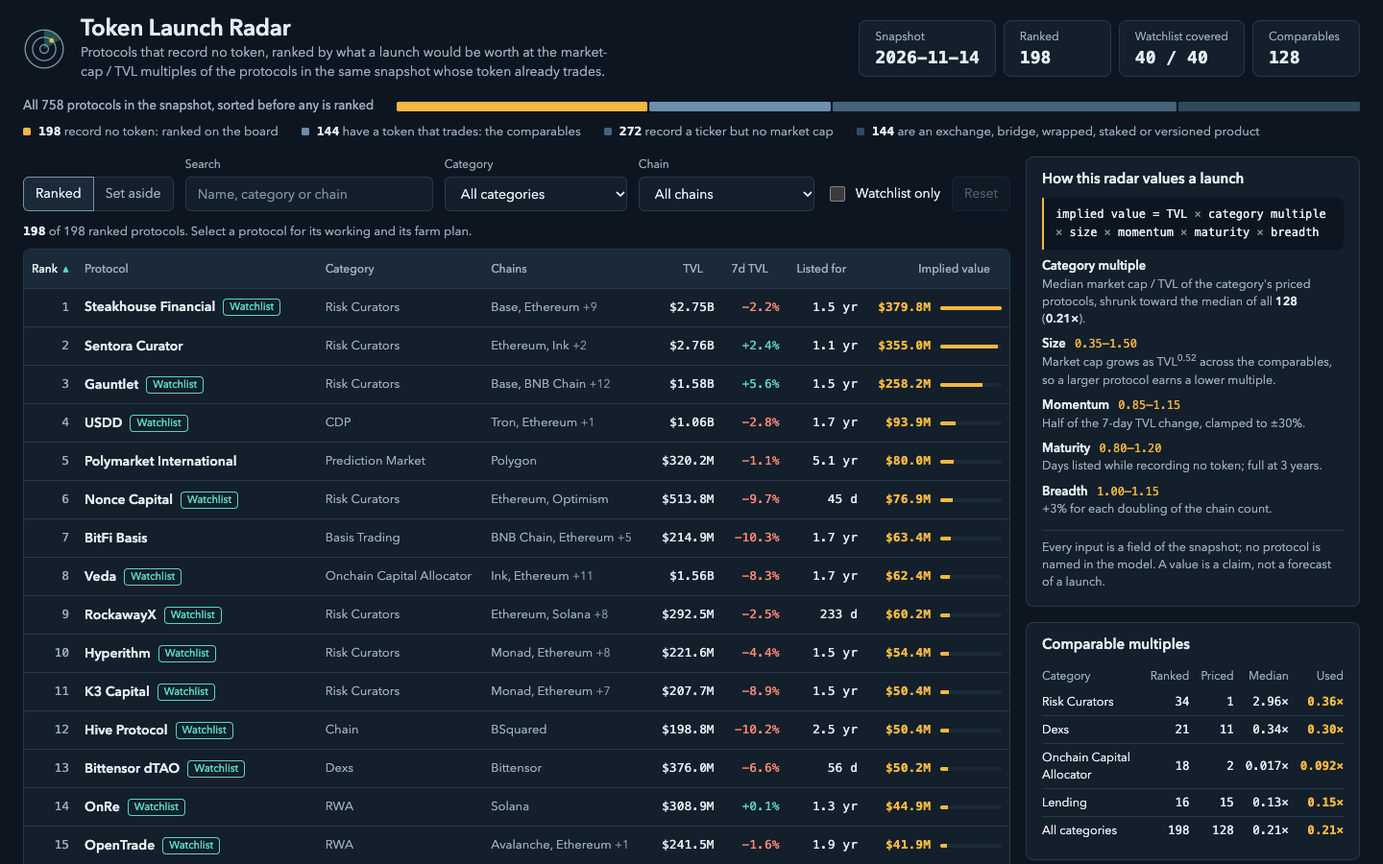
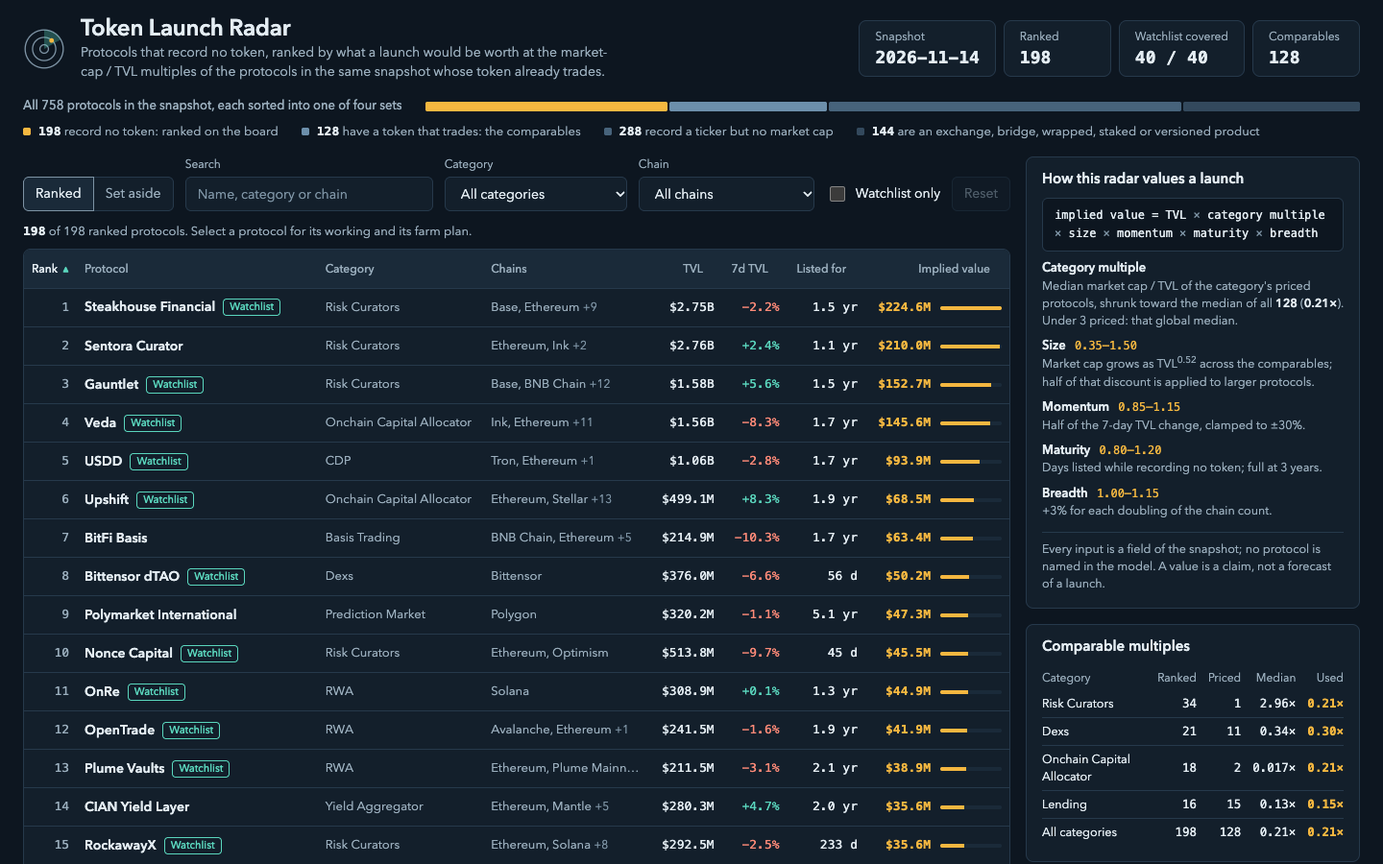
Act on independent review: honest comparables, consistent farm plans
Model: a market cap of zero or less no longer counts as priced, so the
legend and the comparables tile both read 128; a category needs 3 priced
protocols before its own multiple is used, otherwise the global median.
Farm plans: playbook order fixed for uncollateralized lending, leveraged
farming, OTC and card issuers; CDP rows supply collateral; pacing refers
to the step 3 deposit; flat and >100% 7-day changes get their own wording;
the fee total is labelled as network fees.
Page: value bar on a square-root scale, active filters in teal, no side
accent on the formula, role on the scrollable table, Previous/Next removed.
Screenshots recaptured from the final page.

diff --git a/dashboard/app.js b/dashboard/app.js
@@ -55,13 +55,13 @@
       ['change_7d', '7d TVL', 1, (r) => r.change_7d, (r) => pct(r.change_7d)],
       ['age', 'Listed for', 1, (r) => r.model.age_days, (r) => age(r.model.age_days)],
       ['implied_value_usd', 'Implied value', 1, (r) => r.implied_value_usd, (r, max) => '<span class="value">' + money(r.implied_value_usd) + '</span>' +
-        '<span class="meter"><i style="width:' + Math.max(2, 100 * r.implied_value_usd / max).toFixed(1) + '%"></i></span>']
+        '<span class="meter"><i style="width:' + (100 * Math.sqrt(r.implied_value_usd / max)).toFixed(1) + '%"></i></span>']
     ],
     aside: [
       ['name', 'Protocol', 0, (r) => r.name.toLowerCase(), (r) => esc(r.name)],
       ['category', 'Category', 0, (r) => cat(r).toLowerCase(), (r) => esc(cat(r))],
       ['tvl_usd', 'TVL', 1, (r) => r.tvl_usd, (r) => money(r.tvl_usd)],
-      ['mcap_usd', 'Market cap', 1, (r) => r.mcap_usd, (r) => (r.mcap_usd === null ? none('none') : money(r.mcap_usd))],
+      ['mcap_usd', 'Market cap', 1, (r) => r.mcap_usd, (r) => (r.mcap_usd > 0 ? money(r.mcap_usd) : none('none'))],
       ['ratio', 'Mcap / TVL', 1, ratio, (r) => (ratio(r) === null ? none('none') : x(ratio(r)))],
       ['set', 'Why it is not ranked', 0, (r) => r.set, (r) => (r.set === 'priced' ? 'Its token trades: a comparable'
         : r.set === 'ticker' ? 'Records the ticker ' + esc(r.symbol || 'by CoinGecko id') + ', no market cap' : 'Exchange, bridge, wrapper or versioned pool')]
@@ -72,14 +72,13 @@
   /* ---- the hash ---- */
 
   function readHash() {
-    const h = new URLSearchParams(location.hash.slice(1)), sort = (h.get('sort') || '').split(':');
+    const h = new URLSearchParams(location.hash.slice(1));
     state.view = h.get('view') === 'aside' ? 'aside' : 'ranked';
     state.q = h.get('q') || '';
     state.cat = h.get('cat') || '';
     state.chain = h.get('chain') || '';
     state.wl = h.get('wl') === '1';
-    state.sort = sort[0] || firstSort()[0];
-    state.dir = sort[1] === 'desc' ? -1 : sort[1] === 'asc' ? 1 : firstSort()[1];
+    [state.sort, state.dir] = firstSort();
     state.open = bySlug[h.get('p')] ? h.get('p') : '';
   }
   function writeHash() {
@@ -87,7 +86,6 @@
     if (state.view === 'aside') h.set('view', 'aside');
     for (const k of ['q', 'cat', 'chain']) if (state[k]) h.set(k, state[k]);
     if (state.wl) h.set('wl', '1');
-    if (state.sort !== firstSort()[0] || state.dir !== firstSort()[1]) h.set('sort', state.sort + ':' + (state.dir < 0 ? 'desc' : 'asc'));
     if (state.open) h.set('p', state.open);
     const text = h.toString();
     history.replaceState(null, '', text ? '#' + text : location.pathname + location.search);
@@ -141,7 +139,7 @@
     $('board').className = state.view;
     $('empty').hidden = shown.length > 0;
     $('caption').textContent = ranked ? 'Protocols that record no token, ranked by implied launch value' : 'Protocols the board does not rank, and why';
-    const filtered = state.q || state.cat || state.chain || state.wl;
+    const filtered = state.q.trim() || state.cat || (ranked && (state.chain || state.wl));
     $('count').innerHTML = '<b>' + shown.length + '</b> of ' + source.length + (ranked ? ' ranked protocols' : ' protocols set aside') +
       (filtered ? ' match the filters' : ranked ? '. Select a protocol for its working and its farm plan.' : ': a token is already on record, or the protocol is a product of another.');
     $('view-ranked').setAttribute('aria-pressed', ranked);
@@ -167,32 +165,33 @@
   /* One protocol: the value's derivation line by line, the priced protocols behind its multiple, and its farm plan. */
   function renderDetail(r) {
     const w = r.model, comps = D.comparables, group = comps.by[cat(r)];
-    const at = shown.indexOf(r), plan = M.farmPlan(r, D.as_of), tier = M.sizeTier(r.tvl_usd);
+    const plan = M.farmPlan(r, D.as_of), tier = M.sizeTier(r.tvl_usd);
     const peers = D.aside.filter((p) => p.mcap_usd > 0 && cat(p) === cat(r));
     const ledger = [
       ['TVL', money(r.tvl_usd), 'tvl_usd in the snapshot'],
-      ['× Category multiple', factor(w.multiple), group ? 'median ' + x(group.median) + ' of ' + group.n + ' priced, shrunk toward the global ' + x(comps.global.median) : 'no priced protocol in the category: the global median'],
+      ['× Category multiple', factor(w.multiple), w.basis === 'category' ? 'median ' + x(group.median) + ' of ' + group.n + ' priced, shrunk toward the global ' + x(comps.global.median)
+        : 'the global median: ' + (group ? group.n : 0) + ' priced in the category, ' + D.constants.minComps + ' needed'],
       ['× Size', factor(w.size), 'TVL is ' + x(r.tvl_usd / comps.pivot_tvl) + ' the median comparable\'s ' + money(comps.pivot_tvl)],
       ['× Momentum', factor(w.momentum), r.change_7d === null ? 'no 7-day change on record: neutral' : 'TVL moved ' + pct(r.change_7d) + ' in 7 days'],
       ['× Maturity', factor(w.maturity), w.age_days === null ? 'no listing date on record: neutral' : w.age_days + ' days listed (since ' + esc(r.listed_at) + ') with no token'],
       ['× Breadth', factor(w.breadth), r.chains.length + (r.chains.length === 1 ? ' chain' : ' chains')]
     ];
-    const stats = [['7d TVL', pct(r.change_7d)], ['Listed for', age(w.age_days)], ['Implied / TVL', x(r.implied_value_usd / r.tvl_usd)], ['In whole dollars', M.usd(r.implied_value_usd)]];
+    const stats = [['7d TVL', pct(r.change_7d)], ['Listed for', age(w.age_days)], ['Implied / TVL', x(r.implied_value_usd / r.tvl_usd)], ['Chains', r.chains.length]];
     $('detail').innerHTML =
       '<header class="d-head"><div><p class="d-sub">Rank ' + r.rank + ' of ' + D.rows.length + (r.watchlist ? '<span class="badge">Watchlist</span>' : '') + '</p>' +
       '<h2 id="d-name" tabindex="-1" autofocus>' + esc(r.name) + '</h2><p class="d-sub">' + esc(cat(r)) + ' on ' + esc(chainList(r).slice(0, 6).join(', ')) + (r.chains.length > 6 ? ' and ' + (r.chains.length - 6) + ' more' : '') + '. Records no token.</p></div>' +
-      '<div class="d-nav"><button type="button" class="ghost" data-step="-1"' + (at <= 0 ? ' disabled' : '') + '>Previous</button><button type="button" class="ghost" data-step="1"' + (at < 0 || at >= shown.length - 1 ? ' disabled' : '') + '>Next</button><button type="button" class="ghost" data-close>Close</button></div></header>' +
+      '<button type="button" class="ghost" data-close>Close</button></header>' +
       '<div class="d-body"><section aria-labelledby="d-value"><h3 id="d-value">Implied launch value</h3>' +
       '<p class="d-figure">' + money(M.impliedValue(r.tvl_usd, w.multiple, w)) + '</p>' +
       '<p class="d-sub">' + money(r.value_low_usd) + ' to ' + money(r.value_high_usd) + ' at the comparables\' lower and upper quartile multiples, ' + x(w.low) + ' and ' + x(w.high) + '</p>' +
       '<table class="ledger"><tbody>' + ledger.map((l) => '<tr><th scope="row">' + l[0] + '</th><td class="n">' + l[1] + '</td><td>' + l[2] + '</td></tr>').join('') +
       '<tr class="total"><th scope="row">= Implied value</th><td class="n">' + money(r.implied_value_usd) + '</td><td></td></tr></tbody></table>' +
       '<dl class="d-stats">' + stats.map((s) => '<div><dt>' + s[0] + '</dt><dd>' + s[1] + '</dd></div>').join('') + '</dl>' +
-      '<h3>Priced ' + esc(cat(r)) + ' protocols behind the multiple</h3>' + (peers.length
-        ? '<table class="mini"><thead><tr><th scope="col">Token trades</th><th scope="col" class="n">TVL</th><th scope="col" class="n">Market cap</th><th scope="col" class="n">Mcap / TVL</th></tr></thead><tbody>' +
+      '<h3>Priced ' + esc(cat(r)) + ' protocols</h3>' + (peers.length
+        ? '<table class="mini"><thead><tr><th scope="col">Protocol</th><th scope="col" class="n">TVL</th><th scope="col" class="n">Market cap</th><th scope="col" class="n">Mcap / TVL</th></tr></thead><tbody>' +
           peers.slice(0, 4).map((p) => '<tr><th scope="row">' + esc(p.name) + '</th>' + cells([[money(p.tvl_usd), 1], [money(p.mcap_usd), 1], [x(ratio(p)), 1]]) + '</tr>').join('') + '</tbody></table>' +
           (peers.length > 4 ? '<p class="d-sub">The 4 largest by TVL of ' + peers.length + '.</p>' : '')
-        : '<p class="d-sub">None in this snapshot, so the multiple is the global median of all ' + comps.n + ' priced protocols.</p>') + '</section>' +
+        : '<p class="d-sub">None in this snapshot.</p>') + '</section>' +
       '<section aria-labelledby="d-plan"><h3 id="d-plan">Farm plan</h3><p class="d-sub">The ' + M.playbookOf(r.category) + ' playbook at the ' + tier.name + ' size tier: ' + M.usd(tier.lo) + ' to ' + M.usd(tier.hi) + ' of capital. Costs and times are estimates.</p>' +
       '<ol class="plan">' + plan.map((s) => '<li><p>' + esc(s.action) + '</p><dl><div><dt>Cost</dt><dd>' + esc(s.cost) + '</dd></div><div><dt>Time</dt><dd>' + esc(s.time) + '</dd></div></dl></li>').join('') + '</ol></section></div>';
   }
@@ -226,7 +225,7 @@
     // The four categories with the most ranked rows, then every priced protocol.
     $('comps').tBodies[0].innerHTML = byCategory(D.rows).slice(0, 4).map((entry) => {
       const g = comps.by[entry[0]];
-      return '<tr><th scope="row">' + esc(entry[0]) + '</th>' + cells([[entry[1], 1], [g ? g.n : 0, 1], [g ? x(g.median) : 'none', 1], ['<b>' + x((g || comps.global).multiple) + '</b>', 1]]) + '</tr>';
+      return '<tr><th scope="row">' + esc(entry[0]) + '</th>' + cells([[entry[1], 1], [g ? g.n : 0, 1], [g ? x(g.median) : 'none', 1], ['<b>' + x((g && g.n >= k.minComps ? g : comps.global).multiple) + '</b>', 1]]) + '</tr>';
     }).join('') + '<tr><th scope="row">All categories</th>' + cells([[c.candidate, 1], [comps.n, 1], [x(comps.global.median), 1], ['<b>' + x(comps.global.multiple) + '</b>', 1]]) + '</tr>';
 
     options($('chain'), 'All chains', tally(D.rows, (r) => r.chains));
@@ -257,11 +256,7 @@
     if (row) openDetail(row.getAttribute('data-slug'));
   });
   $('detail').addEventListener('click', (e) => {
-    const step = e.target.closest('button[data-step]');
-    if (step) {
-      const next = shown[shown.indexOf(bySlug[state.open]) + Number(step.getAttribute('data-step'))];
-      if (next) openDetail(next.slug);
-    } else if (e.target === e.currentTarget || e.target.closest('[data-close]')) e.currentTarget.close();
+    if (e.target === e.currentTarget || e.target.closest('[data-close]')) e.currentTarget.close();
   });
   $('detail').addEventListener('close', () => {
     const from = document.querySelector('button.open[data-slug="' + state.open + '"]');

diff --git a/dashboard/radar-model.js b/dashboard/radar-model.js
@@ -7,7 +7,8 @@
 
   /* The model's constants, each stated on the page. */
   const K = {
-    prior: 4,              // a category median is shrunk toward the global one as if 4 more comparables sat there
+    minComps: 3,           // a category needs 3 priced protocols before its own multiple is used
+    prior: 4,              // its median is then shrunk toward the global one as if 4 more comparables sat there
     winsor: [0.1, 0.9],    // multiples outside the comparables' 10th-90th percentile are pulled to the edge
     sizeWeight: 0.5,       // half of the measured size discount is applied: category mix inflates the raw slope
     size: [0.35, 1.5],     // bounds of the size factor
@@ -45,8 +46,8 @@
      product    an exchange, a bridge, a wrapped or staked product, or a versioned pool of another protocol
      candidate  it records no token at all: the launches still to come */
   function classify(p) {
-    if (p.mcap_usd !== null) return 'priced';
-    if (p.symbol !== null || p.gecko_id !== null) return 'ticker';
+    if (p.mcap_usd > 0) return 'priced';
+    if (p.mcap_usd !== null || p.symbol !== null || p.gecko_id !== null) return 'ticker'; // a market cap of 0 or less prices nothing
     if (CUSTODY.includes(p.category) || VERSIONED.test(p.name) || WRAPPER_WORD.test(p.name)) return 'product';
     return 'candidate';
   }
@@ -55,8 +56,8 @@
 
   /* Market-cap / TVL multiples of the protocols whose token trades, by category.
      Fallback chain for a pre-token protocol's multiple:
-       1. its category has comparables: the category median, shrunk toward the global median (K.prior)
-       2. its category has none: the global median
+       1. its category has K.minComps comparables or more: the category median, shrunk toward the global median (K.prior)
+       2. its category has fewer: the global median, since one or two protocols are not a market
      The same shrinkage gives each category a low and a high multiple from its quartiles. */
   function comparables(protocols) {
     const priced = protocols.filter((p) => p.mcap_usd > 0 && p.tvl_usd > 0);
@@ -83,7 +84,6 @@
     }
     return {
       n: all.length,
-      winsor: [round4(lo), round4(hi)],
       global: { n: all.length, median: round4(g.median), multiple: round4(g.median), low: round4(g.low), high: round4(g.high) },
       by: by,
       elasticity: round4(sizeElasticity(priced)),
@@ -92,8 +92,7 @@
   }
 
   /* How market cap scales with TVL across the comparables: the slope b of ln(mcap) on ln(TVL).
-     b < 1 means a protocol ten times larger is worth less than ten times more, so one flat multiple
-     would overvalue the giants and undervalue the small. Kept inside 0.3..1. */
+     b < 1: a protocol ten times larger is worth less than ten times more. Kept inside 0.3..1. */
   function sizeElasticity(priced) {
     const n = priced.length;
     let mx = 0, my = 0, sxy = 0, sxx = 0;
@@ -119,7 +118,7 @@
        implied = TVL x multiple x size x momentum x maturity x breadth
      Every factor is bounded, so the value stays a multiple of TVL the comparables support. */
   function working(p, comps, asOf) {
-    const cat = comps.by[categoryOf(p)], basis = cat || comps.global;
+    const own = comps.by[categoryOf(p)], cat = own && own.n >= K.minComps ? own : null, basis = cat || comps.global;
     const age = ageDays(asOf, p.listed_at);
     const change = p.change_7d === null ? 0 : clamp(p.change_7d, -K.momentumPct, K.momentumPct);
     return {
@@ -214,9 +213,9 @@
 
   /* Category to playbook, first match wins; a category none matches gets the yield playbook. */
   const PLAYBOOK_OF = [
-    [/lend|cdp|collateral/i, 'lending'], [/curator|allocator/i, 'curated vault'], [/yield|basis|cedefi|index|insurance/i, 'yield'],
-    [/dex|liquidity|farm|otc/i, 'liquidity'], [/deriv|option|prediction|synthetic/i, 'trading'], [/rwa|stable|reserve|card/i, 'asset'],
-    [/stak|btc|governance|locker/i, 'staking'], [/chain|bridge|launchpad|privacy|payment/i, 'network']
+    [/uncollateral|leveraged|yield|basis|cedefi|index|insurance/i, 'yield'], [/lend|cdp|collateral/i, 'lending'], [/curator|allocator/i, 'curated vault'],
+    [/dex|liquidity|farm/i, 'liquidity'], [/deriv|option|prediction|synthetic|otc/i, 'trading'], [/rwa|stable|reserve/i, 'asset'],
+    [/stak|btc|governance|locker/i, 'staking'], [/chain|bridge|launchpad|privacy|payment|card/i, 'network']
   ];
   const playbookOf = (category) => (PLAYBOOK_OF.find((p) => p[0].test(category || '')) || [0, 'yield'])[1];
 
@@ -267,7 +266,7 @@
     const c = {
       name: row.name, chain: chainName(first), chain2: chainName(chains[1]), lo: tier.lo, hi: tier.hi,
       range: usd(tier.lo) + '-' + usd(tier.hi), fee: fee,
-      asset: BTC_CHAIN.test(first) ? 'BTC or its wrapped form' : "USDC or the chain's main stablecoin",
+      asset: /cdp/i.test(row.category) ? 'a collateral asset it accepts' : BTC_CHAIN.test(first) ? 'BTC or its wrapped form' : "USDC or the chain's main stablecoin",
       depth: tier.lo >= 1000 ? 'With ' + money(row.tvl_usd) + ' of TVL the pool is deep, so the top of the range can still exit cleanly.'
         : tier.name === 'thin' ? 'TVL is only ' + money(row.tvl_usd) + ': stay at the low end and expect slippage on the way out.'
           : 'At ' + money(row.tvl_usd) + ' of TVL, start low in the range and add once a withdrawal has worked.'
@@ -285,22 +284,24 @@
       fees += bridge + fee2 * 3;
       steps.push(['Open a second position of about a quarter of your size on ' + c.chain2 + (n > 2 ? ', and make one transaction on ' + chainName(chains[2]) : '') + ', so the wallet is active on more than one of ' + c.name + "'s " + n + ' chains; bridge with the route its own app offers.', 'about ' + usd(bridge) + ' in bridge fees and ' + usd(fee2 * 3) + ' in fees on ' + c.chain2, '25 minutes, once']);
     } else {
-      steps.push([c.name + ' records TVL on ' + c.chain + ' alone, so depth counts for more than breadth: spread your deposits over at least four separate weeks and use each function of its app at least once.', 'about ' + usd(fee * 4) + ' in fees', '10 minutes a week for a month']);
+      steps.push([c.name + ' records TVL on ' + c.chain + ' alone, so depth counts for more than breadth: spread your activity over at least four separate weeks and use each function of its app at least once.', 'about ' + usd(fee * 4) + ' in fees', '10 minutes a week for a month']);
     }
 
     const ch = row.change_7d, moved = ch === null ? '' : 'TVL moved ' + (ch > 0 ? '+' : '') + ch.toFixed(1) + '% in the 7 days to ' + asOf;
-    const pace = ch === null ? 'The snapshot gives no 7-day change, so enter in two halves a week apart.'
-      : ch >= 10 ? moved + ': deposits are arriving now, so place the first half this week.'
-        : ch <= -10 ? moved + ': start at the low end and add the rest only once it stops shrinking.'
-          : moved + ', steady enough to enter in two halves a week apart.';
+    // How to pace the deposit of step 3, from the 7-day change.
+    const pace = ch === null || Math.abs(ch) < 0.05 ? 'The snapshot shows no 7-day change in TVL, so make the step 3 deposit in two halves a week apart.'
+      : ch > 100 ? moved + ': a jump that size is often one large deposit, so wait a week and confirm it holds before step 3.'
+        : ch >= 10 ? moved + ': deposits are arriving now, so make half of the step 3 deposit this week.'
+          : ch <= -10 ? moved + ': start step 3 at the low end and add the rest only once it stops shrinking.'
+            : moved + ', steady enough to make the step 3 deposit in two halves a week apart.';
     steps.push(['Check in weekly until a snapshot or the end of a programme is announced: confirm the position still earns, log the date and add one small transaction. ' + pace, 'about ' + usd(fee * 13) + ' in fees over 13 weeks', '10 minutes a week']);
 
     const age = row.model.age_days;
     const hold = age === null ? 'The snapshot gives no listing date, so treat it as unproven and review after 90 days.'
       : age < 180 ? 'Tracked for only ' + age + ' days, it is early and programmes can run long: plan on 180 days.'
-        : age >= 730 ? 'It has run ' + age + ' days and records no token, so do not count on a near date: review every 90 days and commit only what can sit idle.'
+        : age >= 730 ? 'It has run ' + age + ' days and records no token: a long run strengthens the claim but dates nothing, so review every 90 days and commit only what can sit idle.'
           : 'It has run ' + age + ' days and records no token: plan on 120 days and review then.';
-    steps.push([hold + ' Leave early if TVL falls more than 40% below the ' + money(row.tvl_usd) + ' the snapshot records.', 'in all: ' + c.range + ' of capital at risk and about ' + usd(Math.ceil(fees)) + ' in fees over the first 90 days', 'about ' + (n > 1 ? 6 : 5) + ' hours over 90 days']);
+    steps.push([hold + ' Leave early if TVL falls more than 40% below the ' + money(row.tvl_usd) + ' the snapshot records.', 'in all: ' + c.range + ' of capital at risk and about ' + usd(Math.ceil(fees)) + ' in network fees over the first 90 days, before the costs steps 3 and 4 name', (n > 1 ? '6-12' : '5-10') + ' hours over 90 days']);
     return steps.map((s) => ({ action: s[0], cost: s[1], time: s[2] }));
   }
 

diff --git a/dashboard/app.css b/dashboard/app.css
@@ -67,7 +67,7 @@ input[type="search"], select, .ghost, .tabs button { height: 36px; border: 1px s
 select { max-width: 190px; }
 input[type="search"] { width: 100%; }
 input::placeholder { color: var(--faint); }
-select.on, input.on { border-color: var(--value); }
+select.on, input.on { border-color: var(--signal); }
 .tabs { display: flex; }
 .tabs button, .ghost { cursor: pointer; color: var(--muted); }
 .tabs button:first-child { border-radius: 6px 0 0 6px; }
@@ -111,7 +111,7 @@ table { border-collapse: collapse; width: 100%; }
 .rail { display: grid; gap: 16px; }
 .card { padding: 12px 16px 16px; }
 .card h2 { font-size: 15px; font-weight: 600; margin-bottom: 8px; }
-.formula { padding: 8px 12px; border-left: 2px solid var(--value); background: var(--ground); border-radius: 0 6px 6px 0; font: 12px/1.6 var(--figures); }
+.formula { padding: 8px 12px; border: 1px solid var(--line); background: var(--ground); border-radius: 6px; font: 12px/1.6 var(--figures); }
 .formula i { color: var(--faint); font-style: normal; }
 .terms { margin-top: 4px; font-size: 12.5px; }
 .terms dt { font-weight: 600; margin-top: 8px; font-size: 13px; }
@@ -134,7 +134,6 @@ dialog::backdrop { background: rgba(5, 10, 15, .72); }
 .d-head { display: flex; justify-content: space-between; align-items: start; gap: 16px; padding: 16px 24px; border-bottom: 1px solid var(--line); position: sticky; top: 0; background: var(--panel); z-index: 1; }
 .d-head h2 { font-size: 22px; line-height: 1.25; font-weight: 600; outline: 0; }
 .d-sub { color: var(--muted); font-size: 13px; }
-.d-nav { display: flex; gap: 8px; flex: none; }
 .d-body { display: grid; grid-template-columns: 440px minmax(0, 1fr); gap: 24px; padding: 16px 24px 24px; }
 .d-body h3 { font-size: 15px; font-weight: 600; margin-bottom: 4px; }
 .d-stats + h3 { margin-top: 16px; }
@@ -145,7 +144,7 @@ dialog::backdrop { background: rgba(5, 10, 15, .72); }
 .ledger td.n { padding: 6px 12px; color: var(--text); }
 .ledger td:last-child { color: var(--muted); font-size: 12.5px; }
 .ledger .total > * { color: var(--value); font-weight: 600; border-bottom: 0; }
-.d-stats { display: grid; grid-template-columns: repeat(4, auto); gap: 8px; }
+.d-stats { display: grid; grid-template-columns: repeat(4, 1fr); gap: 8px; }
 .d-stats div { background: var(--ground); border-radius: 6px; padding: 8px 12px; }
 .d-stats dd { font: 600 14px var(--figures); }
 .plan { counter-reset: step; margin-top: 12px; display: grid; gap: 8px; }

diff --git a/dashboard/index.html b/dashboard/index.html
@@ -24,7 +24,7 @@
 </header>
 
 <section class="universe" aria-labelledby="universe-title">
-  <h2 id="universe-title">All <span id="universe-total"></span> protocols in the snapshot, sorted before any is ranked</h2>
+  <h2 id="universe-title">All <span id="universe-total"></span> protocols in the snapshot, each sorted into one of four sets</h2>
   <div class="bar" id="universe-bar" role="img" aria-label="Share of protocols in each set"></div>
   <ul class="legend" id="universe-legend"></ul>
 </section>
@@ -45,7 +45,7 @@
       <button type="button" class="ghost" id="reset">Reset</button>
     </form>
     <p class="count" id="count" role="status" aria-live="polite"></p>
-    <div class="table-wrap" id="table-wrap" tabindex="0" aria-label="Board table, scrollable">
+    <div class="table-wrap" id="table-wrap" role="region" tabindex="0" aria-label="Board table">
       <table id="board">
         <caption class="sr" id="caption"></caption>
         <thead><tr id="head"></tr></thead>
@@ -64,9 +64,9 @@
       <p class="formula">implied value = TVL <i>&times;</i> category multiple<br><i>&times;</i> size <i>&times;</i> momentum <i>&times;</i> maturity <i>&times;</i> breadth</p>
       <dl class="terms">
         <dt>Category multiple</dt>
-        <dd>Median market cap / TVL of the category's priced protocols, shrunk toward the median of all <b data-k="n"></b> (<b data-k="global"></b>).</dd>
+        <dd>Median market cap / TVL of the category's priced protocols, shrunk toward the median of all <b data-k="n"></b> (<b data-k="global"></b>). Under 3 priced: that global median.</dd>
         <dt>Size <span data-k="size"></span></dt>
-        <dd>Market cap grows as TVL<sup data-k="b"></sup> across the comparables, so a larger protocol earns a lower multiple.</dd>
+        <dd>Market cap grows as TVL<sup data-k="b"></sup> across the comparables; half of that discount is applied to larger protocols.</dd>
         <dt>Momentum <span data-k="momentum"></span></dt>
         <dd>Half of the 7-day TVL change, clamped to &plusmn;<span data-k="clamp"></span>%.</dd>
         <dt>Maturity <span data-k="maturity"></span></dt>

diff --git a/README.md b/README.md
@@ -18,8 +18,8 @@ last is ranked:
 
 | Set | Protocols | Why |
 | --- | ---: | --- |
-| Priced | 144 | The token trades and a market cap is on record. These are the comparables. |
-| Ticker on record | 272 | A ticker or CoinGecko id is recorded, with no market cap. A token already exists. |
+| Priced | 128 | The token trades and a market cap above zero is on record. These are the comparables. |
+| Ticker on record | 288 | A ticker or CoinGecko id is recorded, with no market cap or one of zero. A token already exists. |
 | Products | 144 | An exchange, a bridge, a wrapped or staked product, or a versioned pool of another protocol. |
 | Ranked | 198 | Records no token at all. All 40 protocols of the snapshot's watchlist are among them. |
 
@@ -34,7 +34,7 @@ implied value = TVL x category multiple x size x momentum x maturity x breadth
 
 | Term | Range | Where it comes from |
 | --- | --- | --- |
-| Category multiple | 0.09x to 0.51x on this board | Median market cap / TVL of the priced protocols in the same category, shrunk toward the global median (0.21x across 128 comparables) as if 4 more comparables sat at it. Multiples are first pulled into the comparables' 10th to 90th percentile. A category with no priced protocol uses the global median. |
+| Category multiple | 0.15x to 0.51x on this board | Median market cap / TVL of the priced protocols in the same category, shrunk toward the global median (0.21x across 128 comparables) as if 4 more comparables sat at it. Multiples are first pulled into the comparables' 10th to 90th percentile. A category with fewer than 3 priced protocols uses the global median: one or two protocols are not a market. |
 | Size | 0.35 to 1.50 | Across the comparables market cap grows as TVL^0.52, so a flat multiple would overvalue the giants. Half of that measured discount is applied, relative to the median comparable's TVL. |
 | Momentum | 0.85 to 1.15 | Half of the 7-day TVL change, clamped to +/-30%. No change on record is neutral. |
 | Maturity | 0.80 to 1.20 | Days since `listed_at`: the longer a protocol has run while recording no token, the stronger its launch claim. Full weight at 3 years; no date is neutral. |
